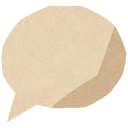
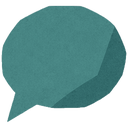
Versão 23: Topo e base do quarto mais limpos: as laranjas e gotas ficam no cartão de hoje, os botões de baixo viraram uma tira de papel e a folha do dia agora rola com o papel junto.

diff --git a/src/app.js b/src/app.js
@@ -180,11 +180,6 @@
       `<button class="vaga v-${l} ${ui.vaga === l ? 'sel' : ''} ${t.poe[l] ? 'cheia' : ''}" data-acao="vaga" data-lugar="${l}" aria-label="${esc(CF.NOME_LUGAR[l])}">${t.poe[l] ? '' : '+'}</button>`).join('') : '';
     return `<main class="tela casa ${decorando ? 'decorando' : ''}" data-tela="casa">
       <section class="casa-quarto" style="--parede:url('${abs('parede_' + q.id + '.jpg')}'); --chao:url('${abs('chao_' + q.id + '.jpg')}')">
-        <div class="hud hud-casa">
-          ${ui.novaVersao ? `<button class="bilhete versao-nova" data-acao="atualizar">Versão nova!</button>` : ''}
-          <span class="bilhete" title="Laranjas"><img src="${PLANTA('fruta')}" alt="Laranjas">${CF.estado.frutas}</span>
-          <span class="bilhete" title="Frases pra revisar"><img src="${IC('gota')}" alt="Frases pra revisar">${regar.length}</span>
-        </div>
         ${hojeHtml(regar)}
         <div class="quarto-base">
           <img class="quarto-fundo" src="${q.img}" alt="">
@@ -197,7 +192,7 @@
           </div>
         </div>
       <nav class="acoes-casa" aria-label="O que fazer no quarto">
-        <button class="acao-redonda" data-acao="alimentar" ${CF.estado.frutas ? '' : 'disabled'}><span><img src="${PLANTA('fruta')}" alt=""></span>Dar laranja</button>
+        <button class="acao-redonda" data-acao="alimentar"><span><img src="${PLANTA('fruta')}" alt=""></span>Dar laranja</button>
         <button class="acao-redonda" data-acao="folha" data-qual="roupas"><span><img src="assets/roupa/bone.png" alt=""></span>Roupas</button>
         <button class="acao-redonda" data-acao="folha" data-qual="loja"><span><img src="assets/toca/icone.png" alt=""></span>Decorar</button>
         <button class="acao-redonda" data-acao="perguntar"><span><img src="${IC('fala')}" alt=""></span>Perguntar</button>
@@ -235,13 +230,18 @@
   // ---------- o que fazer agora (cartão da tela inicial) ----------
   // ---------- metas de hoje (no quarto, do jeito do Finch) ----------
   const META = { aprender: ['Aprender', 'video'], testar: ['Praticar', 'cerebro'], usar: ['Falar', 'fala'], regar: ['Revisar', 'gota'], resultado: ['Resultado', 'trofeu'] };
+  function contasHtml(regar) {
+    return `<span class="contas"><span title="Laranjas"><img src="${PLANTA('fruta')}" alt="Laranjas">${CF.estado.frutas}</span>`
+      + `<span title="Frases pra revisar"><img src="${IC('gota')}" alt="Frases pra revisar">${regar.length}</span></span>`;
+  }
   function hojeHtml(regar) {
     const s = CF.estado.surpresa;
+    const versao = ui.novaVersao ? `<button class="versao-nova" data-acao="atualizar">Versão nova do app! Toca pra baixar</button>` : '';
     const revisar = regar.length ? `<button class="botao azul mini c1 regar-hoje" data-acao="regar"><img src="${IC('gota')}" alt="">Revisar ${plural(regar.length, 'frase', 'frases')}</button>` : '';
     // terminou um dia hoje: energia cheia, volta amanhã (ou adianta o próximo)
     if (s && s.data === CF.hoje() && !s.feita && s.dia && !ui.adiantar && CF.dia(s.dia + 1)) {
-      return `<div class="papel r2 hoje"><span class="fita"></span>
-        <div class="hoje-topo"><span class="rotulo">Hoje · Dia ${s.dia}</span></div>
+      return `<div class="papel r2 hoje">${versao}
+        <div class="hoje-topo"><span class="rotulo">Hoje · Dia ${s.dia}</span>${contasHtml(regar)}</div>
         <h2>Dia completo!</h2>
         <div class="energia"><span>Energia cheia! Amanhã o Torrão traz uma surpresa.</span><div class="barra verde"><i style="width:100%"></i></div></div>
         <div class="linha-botoes">${revisar}<button class="botao kraft mini c3" data-acao="adiantar">Adiantar o Dia ${s.dia + 1}</button></div>
@@ -254,8 +254,8 @@
       const ok = CF.metaFeita(n, p), [nome, ic] = META[p.id] || [NOME_PASSO[p.id], 'carta'];
       return `<button class="meta ${ok ? 'ok' : ''} ${p === prox ? 'agora' : ''}" data-acao="meta" data-id="${p.id}"><img src="${IC(ok ? 'check' : ic)}" alt="">${esc(nome)}</button>`;
     }).join('');
-    return `<div class="papel r2 hoje"><span class="fita"></span>
-      <div class="hoje-topo"><span class="rotulo">Hoje · Dia ${n}</span><button class="link" data-acao="abrirDia" data-n="${n}">Ver o dia</button></div>
+    return `<div class="papel r2 hoje">${versao}
+      <div class="hoje-topo"><span class="rotulo">Hoje · Dia ${n}</span>${contasHtml(regar)}<button class="link" data-acao="abrirDia" data-n="${n}">Ver o dia</button></div>
       <h2>${esc(d.tema)}</h2>
       <div class="metas">${botoes}</div>
       <div class="energia"><span>Energia do Torrão</span><div class="barra verde"><i style="width:${(feitas / metas.length * 100).toFixed(0)}%"></i></div></div>
@@ -974,6 +974,7 @@
 
   // ---------- ações ----------
   function alimentar(botao) {
+    if (!CF.estado.frutas) { aviso('Sem laranja ainda. Cumpre uma meta de hoje que você ganha.'); return; }
     if (!CF.alimentar()) return;
     const alvo = $conteudo.querySelector('.casa-quarto .pet');
     if (botao && alvo) voar(botao, alvo);

diff --git a/src/style.css b/src/style.css
@@ -613,3 +613,33 @@ body.noite .festa .ceu::after, body.noite .revisao .ceu::after { background: tra
   .meta { padding: 6px 4px; font-size: 13px; }
   .meta img { width: 19px; height: 19px; }
 }
+
+/* ---------- v23: topo e base do quarto mais limpos ---------- */
+/* fora da coluna do app (janela larga no PC): papel kraft em vez de vazio escuro */
+body { background: #6b4a2c url("../assets/papel.jpg") center / 320px; background-blend-mode: multiply; }
+/* a folha rola por inteiro com o papel junto (antes o papel ficava parado e o texto passava por cima do escuro) */
+.folha.papel { background: var(--papel) url("../assets/papel.jpg") center top / 320px; background-blend-mode: multiply; background-attachment: local;
+  clip-path: var(--rasgo-topo); }
+.folha.papel::before, .folha.papel::after { display: none; }
+/* o cartão de hoje fica colado no topo e leva as laranjas e as gotas (sem bilhetes soltos nem viga por cima da parede) */
+.casa .hoje, .casa .hoje { top: 10px; }
+.quarto-base::before { display: none; }
+.hoje-topo { gap: 8px; }
+.hoje-topo .rotulo { flex: 1; }
+.contas { display: inline-flex; gap: 10px; font-weight: 800; font-size: 15px; font-variant-numeric: tabular-nums; }
+.contas span { display: inline-flex; align-items: center; gap: 3px; }
+.contas img { width: 20px; height: 20px; object-fit: contain; }
+.hoje .versao-nova { justify-self: stretch; padding: 7px 10px; font-weight: 900; font-size: 14px; color: var(--tinta); background: var(--laranja-claro, #f4a14b);
+  clip-path: polygon(1% 0, 100% 8%, 99% 100%, 0 90%); }
+.hud-casa { padding-top: 12px; }
+/* base: uma tira de papel firme com os 4 botões (sem círculos e sem o chão emendado por trás) */
+.casa-quarto::after { display: none; }
+.acoes-casa { left: 0; right: 0; bottom: 0; max-width: none; height: 96px; padding: 16px 8px 6px; gap: 0; align-items: center; isolation: isolate; }
+.acoes-casa::before { content: ""; position: absolute; inset: 0; z-index: -1; background: var(--papel) url("../assets/papel.jpg") center / 260px;
+  background-blend-mode: multiply; clip-path: var(--rasgo-topo); filter: drop-shadow(0 -3px 0 rgba(58, 38, 23, .25)); }
+.acao-redonda { gap: 2px; font-size: 13px; text-shadow: none; padding: 4px 0; }
+.acao-redonda span { width: 46px; height: 46px; background: none; box-shadow: none; }
+.acao-redonda img { width: 42px; height: 42px; }
+@media (max-height: 780px) {
+  .casa .hoje { top: 8px; }
+}

diff --git a/index.html b/index.html
@@ -6,7 +6,7 @@
 <meta name="theme-color" content="#3a2617">
 <title>Torrão</title>
 <link rel="preload" href="assets/fonts/fraunces-latin.woff2" as="font" type="font/woff2" crossorigin>
-<link rel="stylesheet" href="src/style.css?v=58">
+<link rel="stylesheet" href="src/style.css?v=60">
 </head>
 <body>
 <div id="app">
@@ -16,19 +16,19 @@
 </div>
 <div id="camada"></div>
 <div id="aviso" role="status" aria-live="polite"></div>
-<script src="src/versao.js?v=58"></script>
-<script src="src/data.js?v=58"></script>
-<script src="src/data2.js?v=58"></script>
-<script src="src/ia.js?v=58"></script>
-<script src="src/logic.js?v=58"></script>
-<script src="src/som.js?v=58"></script>
-<script src="src/papel.js?v=58"></script>
-<script src="src/pet_meta.js?v=58"></script>
-<script src="src/roupa_meta.js?v=58"></script>
-<script src="src/vestir.js?v=58"></script>
-<script src="src/careca_meta.js?v=58"></script>
-<script src="src/roupa8_meta.js?v=58"></script>
-<script src="src/pet.js?v=58"></script>
-<script src="src/app.js?v=58"></script>
+<script src="src/versao.js?v=60"></script>
+<script src="src/data.js?v=60"></script>
+<script src="src/data2.js?v=60"></script>
+<script src="src/ia.js?v=60"></script>
+<script src="src/logic.js?v=60"></script>
+<script src="src/som.js?v=60"></script>
+<script src="src/papel.js?v=60"></script>
+<script src="src/pet_meta.js?v=60"></script>
+<script src="src/roupa_meta.js?v=60"></script>
+<script src="src/vestir.js?v=60"></script>
+<script src="src/careca_meta.js?v=60"></script>
+<script src="src/roupa8_meta.js?v=60"></script>
+<script src="src/pet.js?v=60"></script>
+<script src="src/app.js?v=60"></script>
 </body>
 </html>

diff --git a/src/versao.js b/src/versao.js
@@ -1,3 +1,3 @@
 // Gerado por tools/build_apk.py: número desta versão do app (igual ao versionCode do APK).
 window.CF = window.CF || {};
-CF.VERSAO = 22;
+CF.VERSAO = 23;
